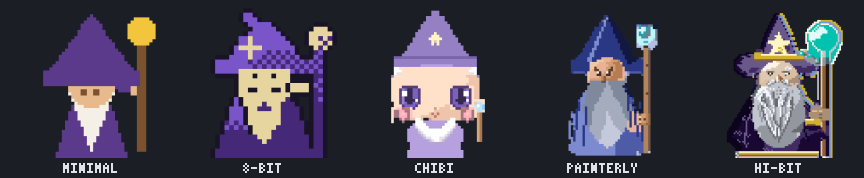
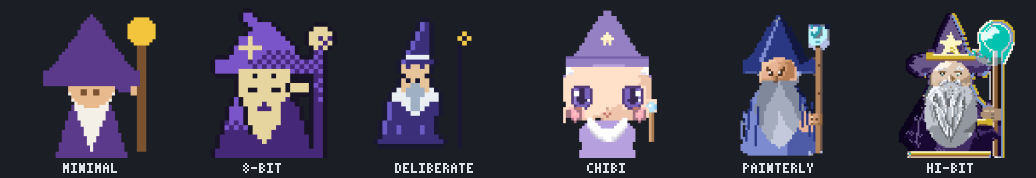
docs: re-render style bake-off with the 6th (deliberate) wizard
style-bakeoff.png now shows all six artist skills side by side
(minimal / 8-bit / deliberate / chibi / painterly / hi-bit); README alt + caption
updated 5 -> 6.

diff --git a/README.md b/README.md
@@ -32,10 +32,10 @@
 by agents through the MCP tools. No hand-editing, no image imports.</em></p>
 
 <p align="center">
-  <img src="docs/style-bakeoff.png" width="760" alt="the same wizard drawn in five artist styles: minimal, 8-bit, chibi, painterly, hi-bit">
+  <img src="docs/style-bakeoff.png" width="860" alt="the same wizard drawn in six artist styles: minimal, 8-bit, deliberate, chibi, painterly, hi-bit">
 </p>
 
-<p align="center"><em>One subject, five artist styles — each a separate skill
+<p align="center"><em>One subject, six artist styles — each a separate skill
 (<code>.claude/skills/art-*</code>) driving the same decompose-and-build method,
 then sharpened by a reviewer-agent feedback loop.</em></p>
 
